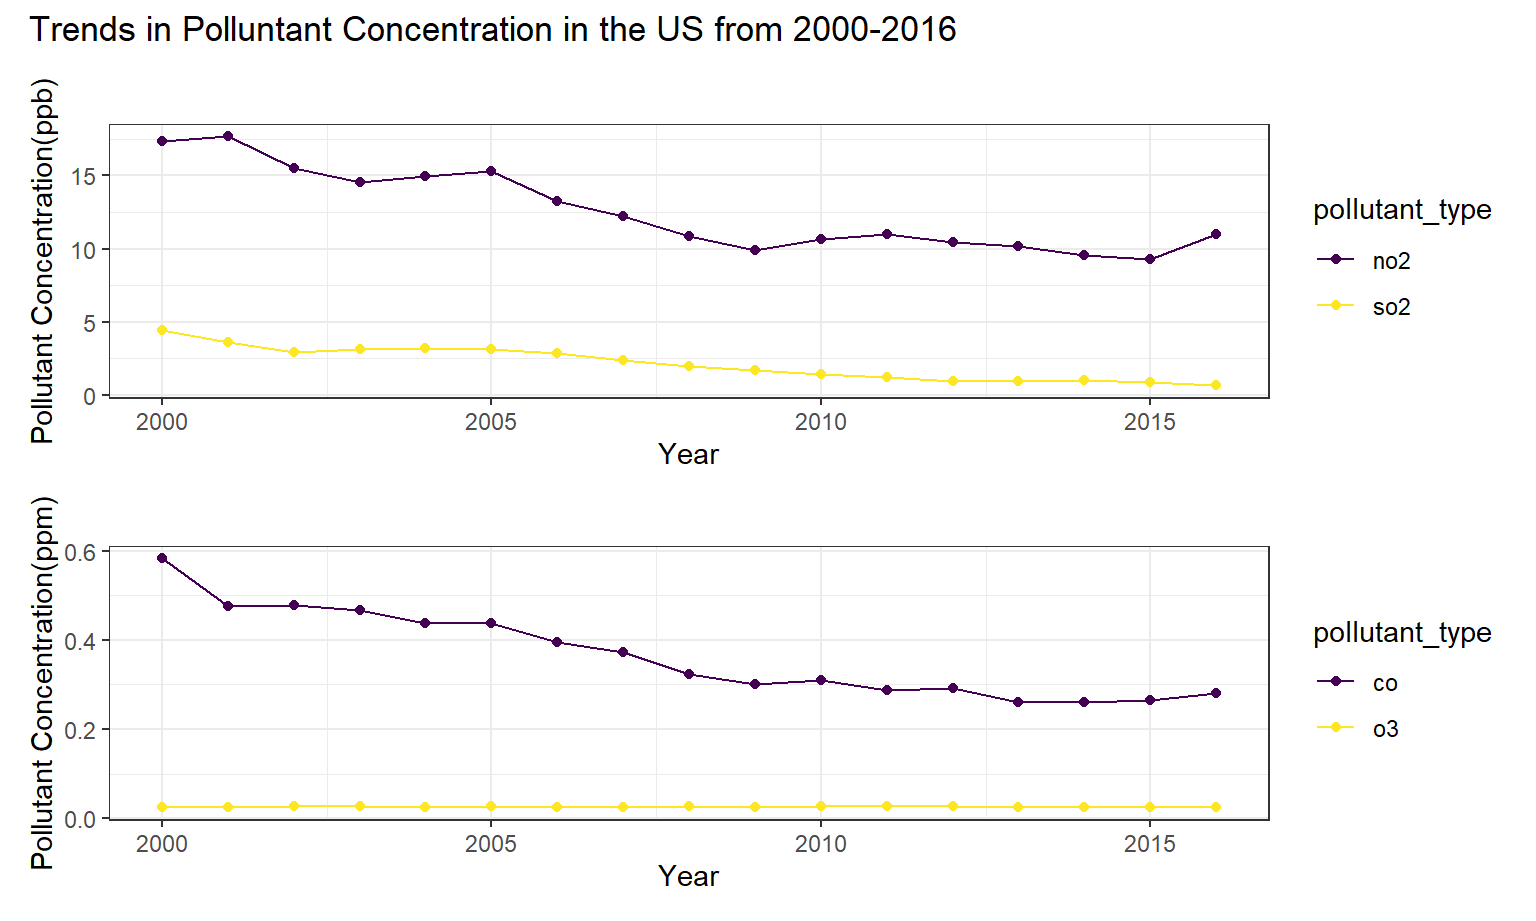
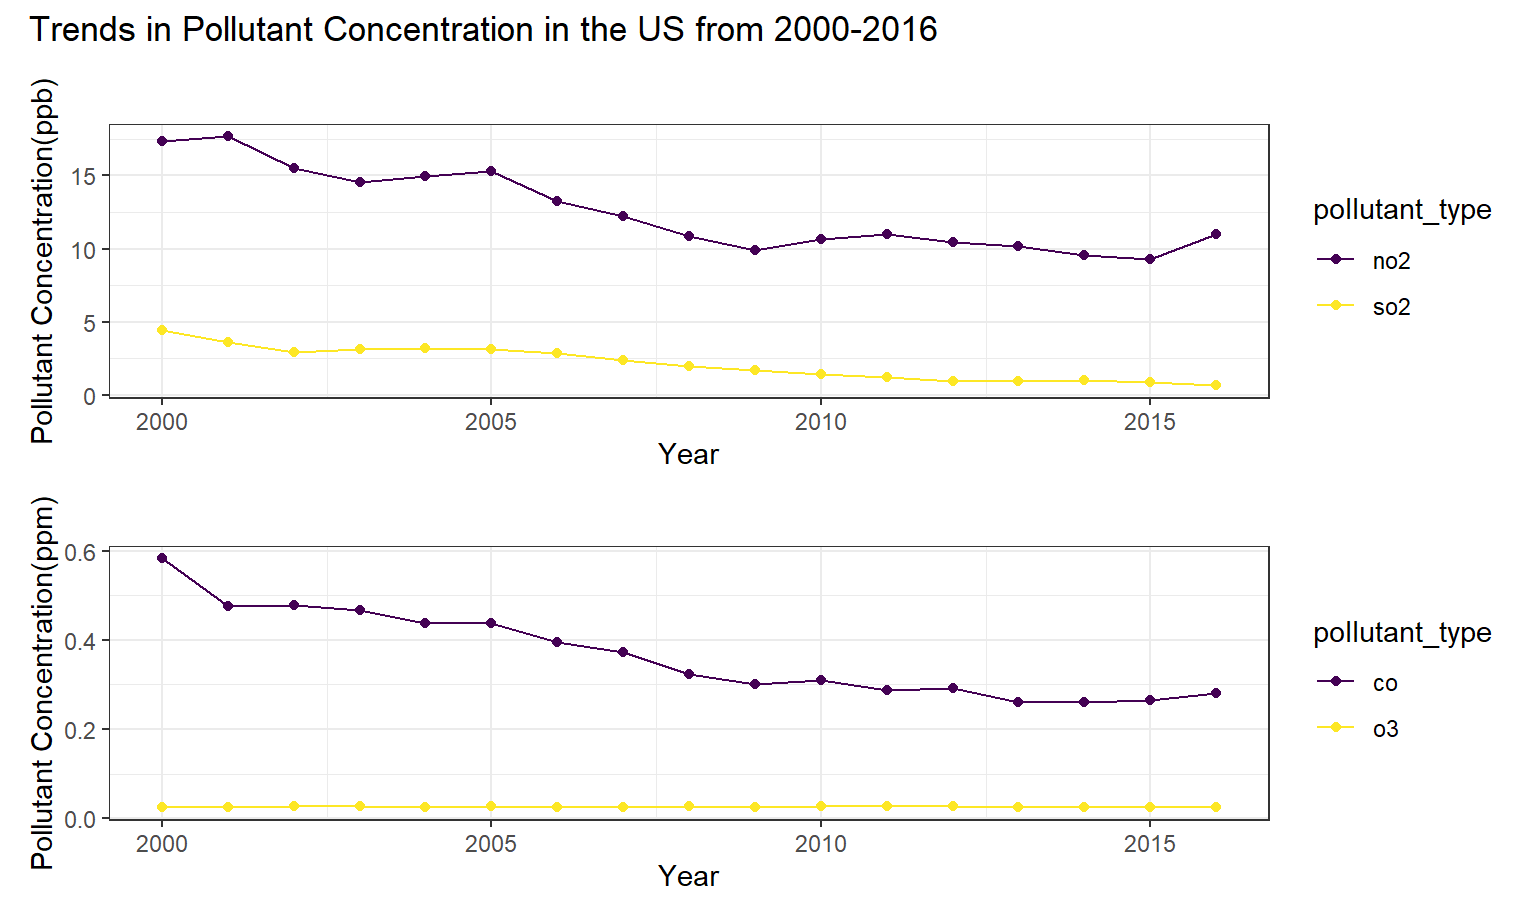
quick spelling fix

Changed region(s): [[0.1562, 0.0, 0.5312, 0.0608], [0.5625, 0.0, 0.625, 0.0608]]

diff --git a/exploratory-analysis.html b/exploratory-analysis.html
@@ -13,8 +13,8 @@
 
 <title>Exploratory Analysis</title>
 
-<script src="site_libs/header-attrs-2.10/header-attrs.js"></script>
-<script src="site_libs/jquery-3.5.1/jquery.min.js"></script>
+<script src="site_libs/header-attrs-2.11/header-attrs.js"></script>
+<script src="site_libs/jquery-3.6.0/jquery-3.6.0.min.js"></script>
 <meta name="viewport" content="width=device-width, initial-scale=1" />
 <link href="site_libs/bootstrap-3.3.5/css/journal.min.css" rel="stylesheet" />
 <script src="site_libs/bootstrap-3.3.5/js/bootstrap.min.js"></script>
@@ -380,7 +380,7 @@ div.tocify {
 
 
 <p> </p>
-<p>To understand the polltion-related factors that act upon cancer incidence and death, we obtained, cleaned, and analyzed pollution data that spanned from 2000-2016. This data contained concentrations from the known pollutants NO2, O3, SO2, and CO.</p>
+<p>To understand the pollution-related factors that act upon cancer incidence and death, we obtained, cleaned, and analyzed pollution data that spanned from 2000-2016. This data contained concentrations from the known pollutants NO2, O3, SO2, and CO.</p>
 <hr />
 <div id="exploring-pollution-data-set" class="section level1">
 <h1>Exploring Pollution Data Set</h1>
@@ -617,7 +617,7 @@ modified_pollution %&gt;%
 <div id="comparing-distributions-of-pollutant-concentrations" class="section level2">
 <h2>Comparing Distributions of Pollutant Concentrations</h2>
 <p> </p>
-<p>To compare the distributions of the pollutants to each other, we created a series of boxplots. As you can see, NO2 has the highest average concentration of any of the pollutants in ppm, and also has a skewed-right shape. CO and O3 have much narrowers distributions (in addition to much lower mean concentrations), making their shape harder to discern. SO2, however, appears to be approximately normally distributed.</p>
+<p>To compare the distributions of the pollutants to each other, we created a series of boxplots. As you can see, NO2 has the highest average concentration of any of the pollutants in ppm, and also has a skewed-right shape. CO and O3 have much narrower distributions (in addition to much lower mean concentrations), making their shape harder to discern. SO2, however, appears to be approximately normally distributed.</p>
 <pre class="r"><code>ppb_plot =
   modified_pollution %&gt;% 
   pivot_longer(
@@ -691,7 +691,7 @@ ppb_point =
   ) 
 
 ppb_point / ppm_point + plot_annotation(title = 
-                                        &quot;Trends in Polluntant Concentration in the US from 2000-2016&quot;)</code></pre>
+                                        &quot;Trends in Pollutant Concentration in the US from 2000-2016&quot;)</code></pre>
 <p><img src="exploratory-analysis_files/figure-html/unnamed-chunk-4-1.png" width="90%" /></p>
 <hr />
 </div>
@@ -747,8 +747,8 @@ inc_state %&gt;%
     title = &quot;Distribution of Lung/Bronchus Cancer Incidence Rate by State in 2013-2017&quot;,
     geo = g
   )</code></pre>
-<div id="htmlwidget-21fb1949420099caee19" style="width:90%;height:460.8px;" class="plotly html-widget"></div>
-<script type="application/json" data-for="htmlwidget-21fb1949420099caee19">{"x":{"visdat":{"3538a403e91":["function () ","plotlyVisDat"]},"cur_data":"3538a403e91","attrs":{"3538a403e91":{"locationmode":"USA-states","alpha_stroke":1,"sizes":[10,100],"spans":[1,20],"z":{},"text":{},"locations":{},"color":{},"colors":"inferno","inherit":true}},"layout":{"margin":{"b":40,"l":60,"t":25,"r":10},"mapType":"geo","scene":{"zaxis":{"title":"lung_and_bronchus_both_sexes_combined"}},"geo":{"domain":{"x":[0,1],"y":[0,1]},"scope":"usa","projection":{"type":"albers usa"},"showlakes":true,"lakecolor":"rgba(255,255,255,1)"},"hovermode":"closest","showlegend":false,"legend":{"yanchor":"top","y":0.5},"title":"Distribution of Lung/Bronchus Cancer Incidence Rate by State in 2013-2017"},"source":"A","config":{"modeBarButtonsToAdd":["hoverclosest","hovercompare"],"showSendToCloud":false},"data":[{"colorbar":{"title":"Incidence Rate per 100,000","ticklen":2,"len":0.5,"lenmode":"fraction","y":1,"yanchor":"top"},"colorscale":[["0","rgba(0,0,4,1)"],["0.0416666666666667","rgba(6,4,24,1)"],["0.0833333333333334","rgba(17,10,48,1)"],["0.125","rgba(33,12,74,1)"],["0.166666666666667","rgba(51,10,94,1)"],["0.208333333333333","rgba(69,10,105,1)"],["0.25","rgba(87,16,110,1)"],["0.291666666666667","rgba(104,22,110,1)"],["0.333333333333333","rgba(120,28,109,1)"],["0.375","rgba(137,34,106,1)"],["0.416666666666667","rgba(154,40,101,1)"],["0.458333333333333","rgba(171,47,94,1)"],["0.5","rgba(187,54,85,1)"],["0.541666666666667","rgba(202,64,74,1)"],["0.583333333333333","rgba(216,76,62,1)"],["0.625","rgba(227,89,50,1)"],["0.666666666666667","rgba(237,105,37,1)"],["0.708333333333333","rgba(245,122,23,1)"],["0.75","rgba(249,141,10,1)"],["0.791666666666667","rgba(252,161,8,1)"],["0.833333333333333","rgba(252,181,25,1)"],["0.875","rgba(249,201,50,1)"],["0.916666666666667","rgba(244,222,82,1)"],["0.958333333333333","rgba(241,241,123,1)"],["1","rgba(252,255,164,1)"]],"showscale":true,"locationmode":"USA-states","z":[64.8,55.8,46.7,77.2,41.5,41.4,59.6,66.9,57.7,62.8,45.7,49.5,63.7,72.2,63.3,56.2,91,66.2,72.1,56.4,61.6,63.3,56.1,74.9,72,53.7,57,63.7,55.3,38.5,58.7,67.7,57.7,67.8,67.4,54.1,63.5,69.4,64.4,59,74.5,50.6,26,61.1,56.4,54,79.8,59.1,42.2],"text":["Alabama","Alaska","Arizona","Arkansas","California","Colorado","Connecticut","Delaware","Florida","Georgia","Hawaii","Idaho","Illinois","Indiana","Iowa","Kansas","Kentucky","Louisiana","Maine","Maryland","Massachusetts","Michigan","Minnesota","Mississippi","Missouri","Montana","Nebraska","New Hampshire","New Jersey","New Mexico","New York","North Carolina","North Dakota","Ohio","Oklahoma","Oregon","Pennsylvania","Rhode Island","South Carolina","South Dakota","Tennessee","Texas","Utah","Vermont","Virginia","Washington","West Virginia","Wisconsin","Wyoming"],"locations":["AL","AK","AZ","AR","CA","CO","CT","DE","FL","GA","HI","ID","IL","IN","IA","KS","KY","LA","ME","MD","MA","MI","MN","MS","MO","MT","NE","NH","NJ","NM","NY","NC","ND","OH","OK","OR","PA","RI","SC","SD","TN","TX","UT","VT","VA","WA","WV","WI","WY"],"type":"choropleth","marker":{"line":{"colorbar":{"title":"","ticklen":2},"cmin":26,"cmax":91,"colorscale":[["0","rgba(0,0,4,1)"],["0.0416666666666667","rgba(6,4,24,1)"],["0.0833333333333334","rgba(17,10,48,1)"],["0.125","rgba(33,12,74,1)"],["0.166666666666667","rgba(51,10,94,1)"],["0.208333333333333","rgba(69,10,105,1)"],["0.25","rgba(87,16,110,1)"],["0.291666666666667","rgba(104,22,110,1)"],["0.333333333333333","rgba(120,28,109,1)"],["0.375","rgba(137,34,106,1)"],["0.416666666666667","rgba(154,40,101,1)"],["0.458333333333333","rgba(171,47,94,1)"],["0.5","rgba(187,54,85,1)"],["0.541666666666667","rgba(202,64,74,1)"],["0.583333333333333","rgba(216,76,62,1)"],["0.625","rgba(227,89,50,1)"],["0.666666666666667","rgba(237,105,37,1)"],["0.708333333333333","rgba(245,122,23,1)"],["0.75","rgba(249,141,10,1)"],["0.791666666666667","rgba(252,161,8,1)"],["0.833333333333333","rgba(252,181,25,1)"],["0.875","rgba(249,201,50,1)"],["0.916666666666667","rgba(244,222,82,1)"],["0.958333333333333","rgba(241,241,123,1)"],["1","rgba(252,255,164,1)"]],"showscale":false,"color":[64.8,55.8,46.7,77.2,41.5,41.4,59.6,66.9,57.7,62.8,45.7,49.5,63.7,72.2,63.3,56.2,91,66.2,72.1,56.4,61.6,63.3,56.1,74.9,72,53.7,57,63.7,55.3,38.5,58.7,67.7,57.7,67.8,67.4,54.1,63.5,69.4,64.4,59,74.5,50.6,26,61.1,56.4,54,79.8,59.1,42.2]}},"geo":"geo","frame":null}],"highlight":{"on":"plotly_click","persistent":false,"dynamic":false,"selectize":false,"opacityDim":0.2,"selected":{"opacity":1},"debounce":0},"shinyEvents":["plotly_hover","plotly_click","plotly_selected","plotly_relayout","plotly_brushed","plotly_brushing","plotly_clickannotation","plotly_doubleclick","plotly_deselect","plotly_afterplot","plotly_sunburstclick"],"base_url":"https://plot.ly"},"evals":[],"jsHooks":[]}</script>
+<div id="htmlwidget-fdfa8272f8fe6a5e9446" style="width:90%;height:460.8px;" class="plotly html-widget"></div>
+<script type="application/json" data-for="htmlwidget-fdfa8272f8fe6a5e9446">{"x":{"visdat":{"2b481d277c9c":["function () ","plotlyVisDat"]},"cur_data":"2b481d277c9c","attrs":{"2b481d277c9c":{"locationmode":"USA-states","alpha_stroke":1,"sizes":[10,100],"spans":[1,20],"z":{},"text":{},"locations":{},"color":{},"colors":"inferno","inherit":true}},"layout":{"margin":{"b":40,"l":60,"t":25,"r":10},"mapType":"geo","scene":{"zaxis":{"title":"lung_and_bronchus_both_sexes_combined"}},"geo":{"domain":{"x":[0,1],"y":[0,1]},"scope":"usa","projection":{"type":"albers usa"},"showlakes":true,"lakecolor":"rgba(255,255,255,1)"},"hovermode":"closest","showlegend":false,"legend":{"yanchor":"top","y":0.5},"title":"Distribution of Lung/Bronchus Cancer Incidence Rate by State in 2013-2017"},"source":"A","config":{"modeBarButtonsToAdd":["hoverclosest","hovercompare"],"showSendToCloud":false},"data":[{"colorbar":{"title":"Incidence Rate per 100,000","ticklen":2,"len":0.5,"lenmode":"fraction","y":1,"yanchor":"top"},"colorscale":[["0","rgba(0,0,4,1)"],["0.0416666666666667","rgba(6,4,24,1)"],["0.0833333333333334","rgba(17,10,48,1)"],["0.125","rgba(33,12,74,1)"],["0.166666666666667","rgba(51,10,94,1)"],["0.208333333333333","rgba(69,10,105,1)"],["0.25","rgba(87,16,110,1)"],["0.291666666666667","rgba(104,22,110,1)"],["0.333333333333333","rgba(120,28,109,1)"],["0.375","rgba(137,34,106,1)"],["0.416666666666667","rgba(154,40,101,1)"],["0.458333333333333","rgba(171,47,94,1)"],["0.5","rgba(187,54,85,1)"],["0.541666666666667","rgba(202,64,74,1)"],["0.583333333333333","rgba(216,76,62,1)"],["0.625","rgba(227,89,50,1)"],["0.666666666666667","rgba(237,105,37,1)"],["0.708333333333333","rgba(245,122,23,1)"],["0.75","rgba(249,141,10,1)"],["0.791666666666667","rgba(252,161,8,1)"],["0.833333333333333","rgba(252,181,25,1)"],["0.875","rgba(249,201,50,1)"],["0.916666666666667","rgba(244,222,82,1)"],["0.958333333333333","rgba(241,241,123,1)"],["1","rgba(252,255,164,1)"]],"showscale":true,"locationmode":"USA-states","z":[64.8,55.8,46.7,77.2,41.5,41.4,59.6,66.9,57.7,62.8,45.7,49.5,63.7,72.2,63.3,56.2,91,66.2,72.1,56.4,61.6,63.3,56.1,74.9,72,53.7,57,63.7,55.3,38.5,58.7,67.7,57.7,67.8,67.4,54.1,63.5,69.4,64.4,59,74.5,50.6,26,61.1,56.4,54,79.8,59.1,42.2],"text":["Alabama","Alaska","Arizona","Arkansas","California","Colorado","Connecticut","Delaware","Florida","Georgia","Hawaii","Idaho","Illinois","Indiana","Iowa","Kansas","Kentucky","Louisiana","Maine","Maryland","Massachusetts","Michigan","Minnesota","Mississippi","Missouri","Montana","Nebraska","New Hampshire","New Jersey","New Mexico","New York","North Carolina","North Dakota","Ohio","Oklahoma","Oregon","Pennsylvania","Rhode Island","South Carolina","South Dakota","Tennessee","Texas","Utah","Vermont","Virginia","Washington","West Virginia","Wisconsin","Wyoming"],"locations":["AL","AK","AZ","AR","CA","CO","CT","DE","FL","GA","HI","ID","IL","IN","IA","KS","KY","LA","ME","MD","MA","MI","MN","MS","MO","MT","NE","NH","NJ","NM","NY","NC","ND","OH","OK","OR","PA","RI","SC","SD","TN","TX","UT","VT","VA","WA","WV","WI","WY"],"type":"choropleth","marker":{"line":{"colorbar":{"title":"","ticklen":2},"cmin":26,"cmax":91,"colorscale":[["0","rgba(0,0,4,1)"],["0.0416666666666667","rgba(6,4,24,1)"],["0.0833333333333334","rgba(17,10,48,1)"],["0.125","rgba(33,12,74,1)"],["0.166666666666667","rgba(51,10,94,1)"],["0.208333333333333","rgba(69,10,105,1)"],["0.25","rgba(87,16,110,1)"],["0.291666666666667","rgba(104,22,110,1)"],["0.333333333333333","rgba(120,28,109,1)"],["0.375","rgba(137,34,106,1)"],["0.416666666666667","rgba(154,40,101,1)"],["0.458333333333333","rgba(171,47,94,1)"],["0.5","rgba(187,54,85,1)"],["0.541666666666667","rgba(202,64,74,1)"],["0.583333333333333","rgba(216,76,62,1)"],["0.625","rgba(227,89,50,1)"],["0.666666666666667","rgba(237,105,37,1)"],["0.708333333333333","rgba(245,122,23,1)"],["0.75","rgba(249,141,10,1)"],["0.791666666666667","rgba(252,161,8,1)"],["0.833333333333333","rgba(252,181,25,1)"],["0.875","rgba(249,201,50,1)"],["0.916666666666667","rgba(244,222,82,1)"],["0.958333333333333","rgba(241,241,123,1)"],["1","rgba(252,255,164,1)"]],"showscale":false,"color":[64.8,55.8,46.7,77.2,41.5,41.4,59.6,66.9,57.7,62.8,45.7,49.5,63.7,72.2,63.3,56.2,91,66.2,72.1,56.4,61.6,63.3,56.1,74.9,72,53.7,57,63.7,55.3,38.5,58.7,67.7,57.7,67.8,67.4,54.1,63.5,69.4,64.4,59,74.5,50.6,26,61.1,56.4,54,79.8,59.1,42.2]}},"geo":"geo","frame":null}],"highlight":{"on":"plotly_click","persistent":false,"dynamic":false,"selectize":false,"opacityDim":0.2,"selected":{"opacity":1},"debounce":0},"shinyEvents":["plotly_hover","plotly_click","plotly_selected","plotly_relayout","plotly_brushed","plotly_brushing","plotly_clickannotation","plotly_doubleclick","plotly_deselect","plotly_afterplot","plotly_sunburstclick"],"base_url":"https://plot.ly"},"evals":[],"jsHooks":[]}</script>
 <p><em>Note. The raw data for incidence rate of cancer by cancer type did not include data point for Nevada in the combined national rates. Original data recommends referring to publications and sources page on American Cancer Society website</em></p>
 <p> </p>
 </div>
@@ -797,8 +797,8 @@ death_state %&gt;%
     title = &quot;Distribution of Lung/Bronchus Cancer Mortality Rate by State in 2013-2017&quot;,
     geo = g
   )</code></pre>
-<div id="htmlwidget-3a74d6a1ccf13572d19c" style="width:90%;height:460.8px;" class="plotly html-widget"></div>
-<script type="application/json" data-for="htmlwidget-3a74d6a1ccf13572d19c">{"x":{"visdat":{"353858eed13":["function () ","plotlyVisDat"]},"cur_data":"353858eed13","attrs":{"353858eed13":{"locationmode":"USA-states","alpha_stroke":1,"sizes":[10,100],"spans":[1,20],"z":{},"text":{},"locations":{},"color":{},"colors":"inferno","inherit":true}},"layout":{"margin":{"b":40,"l":60,"t":25,"r":10},"mapType":"geo","scene":{"zaxis":{"title":"lung_and_bronchus_both_sexes_combined"}},"geo":{"domain":{"x":[0,1],"y":[0,1]},"scope":"usa","projection":{"type":"albers usa"},"showlakes":true,"lakecolor":"rgba(255,255,255,1)"},"hovermode":"closest","showlegend":false,"legend":{"yanchor":"top","y":0.5},"title":"Distribution of Lung/Bronchus Cancer Mortality Rate by State in 2013-2017"},"source":"A","config":{"modeBarButtonsToAdd":["hoverclosest","hovercompare"],"showSendToCloud":false},"data":[{"colorbar":{"title":"Mortality Rate per 100,000","ticklen":2,"len":0.5,"lenmode":"fraction","y":1,"yanchor":"top"},"colorscale":[["0","rgba(0,0,4,1)"],["0.0416666666666667","rgba(6,4,24,1)"],["0.0833333333333333","rgba(17,10,48,1)"],["0.125","rgba(33,12,74,1)"],["0.166666666666667","rgba(51,10,94,1)"],["0.208333333333333","rgba(69,10,105,1)"],["0.25","rgba(87,16,110,1)"],["0.291666666666667","rgba(104,22,110,1)"],["0.333333333333333","rgba(120,28,109,1)"],["0.375","rgba(137,34,106,1)"],["0.416666666666667","rgba(154,40,101,1)"],["0.458333333333333","rgba(171,47,94,1)"],["0.5","rgba(187,54,85,1)"],["0.541666666666667","rgba(202,64,74,1)"],["0.583333333333333","rgba(216,76,62,1)"],["0.625","rgba(227,89,50,1)"],["0.666666666666667","rgba(237,105,37,1)"],["0.708333333333333","rgba(245,122,23,1)"],["0.75","rgba(249,141,10,1)"],["0.791666666666667","rgba(252,161,8,1)"],["0.833333333333333","rgba(252,181,25,1)"],["0.875","rgba(249,201,50,1)"],["0.916666666666667","rgba(244,222,82,1)"],["0.958333333333333","rgba(241,241,123,1)"],["1","rgba(252,255,164,1)"]],"showscale":true,"locationmode":"USA-states","z":[48.5,36.6,31.3,52.8,28.1,26.5,33.1,43.2,37.5,40.9,29.3,32.4,41.1,48.7,41.3,41.6,60.4,47.5,46.7,37.2,37.1,44.1,35.2,52.8,48.7,35.9,37.9,39.3,41.1,33.7,26.8,33.6,44.1,35.1,46.7,50,36.6,40.8,42.2,42.7,39.3,51.3,34.1,18.1,41.4,38.8,35.5,53.6,38.5,30.9],"text":["Alabama","Alaska","Arizona","Arkansas","California","Colorado","Connecticut","Delaware","Florida","Georgia","Hawaii","Idaho","Illinois","Indiana","Iowa","Kansas","Kentucky","Louisiana","Maine","Maryland","Massachusetts","Michigan","Minnesota","Mississippi","Missouri","Montana","Nebraska","Nevada","New Hampshire","New Jersey","New Mexico","New York","North Carolina","North Dakota","Ohio","Oklahoma","Oregon","Pennsylvania","Rhode Island","South Carolina","South Dakota","Tennessee","Texas","Utah","Vermont","Virginia","Washington","West Virginia","Wisconsin","Wyoming"],"locations":["AL","AK","AZ","AR","CA","CO","CT","DE","FL","GA","HI","ID","IL","IN","IA","KS","KY","LA","ME","MD","MA","MI","MN","MS","MO","MT","NE","NV","NH","NJ","NM","NY","NC","ND","OH","OK","OR","PA","RI","SC","SD","TN","TX","UT","VT","VA","WA","WV","WI","WY"],"type":"choropleth","marker":{"line":{"colorbar":{"title":"","ticklen":2},"cmin":18.1,"cmax":60.4,"colorscale":[["0","rgba(0,0,4,1)"],["0.0416666666666667","rgba(6,4,24,1)"],["0.0833333333333333","rgba(17,10,48,1)"],["0.125","rgba(33,12,74,1)"],["0.166666666666667","rgba(51,10,94,1)"],["0.208333333333333","rgba(69,10,105,1)"],["0.25","rgba(87,16,110,1)"],["0.291666666666667","rgba(104,22,110,1)"],["0.333333333333333","rgba(120,28,109,1)"],["0.375","rgba(137,34,106,1)"],["0.416666666666667","rgba(154,40,101,1)"],["0.458333333333333","rgba(171,47,94,1)"],["0.5","rgba(187,54,85,1)"],["0.541666666666667","rgba(202,64,74,1)"],["0.583333333333333","rgba(216,76,62,1)"],["0.625","rgba(227,89,50,1)"],["0.666666666666667","rgba(237,105,37,1)"],["0.708333333333333","rgba(245,122,23,1)"],["0.75","rgba(249,141,10,1)"],["0.791666666666667","rgba(252,161,8,1)"],["0.833333333333333","rgba(252,181,25,1)"],["0.875","rgba(249,201,50,1)"],["0.916666666666667","rgba(244,222,82,1)"],["0.958333333333333","rgba(241,241,123,1)"],["1","rgba(252,255,164,1)"]],"showscale":false,"color":[48.5,36.6,31.3,52.8,28.1,26.5,33.1,43.2,37.5,40.9,29.3,32.4,41.1,48.7,41.3,41.6,60.4,47.5,46.7,37.2,37.1,44.1,35.2,52.8,48.7,35.9,37.9,39.3,41.1,33.7,26.8,33.6,44.1,35.1,46.7,50,36.6,40.8,42.2,42.7,39.3,51.3,34.1,18.1,41.4,38.8,35.5,53.6,38.5,30.9]}},"geo":"geo","frame":null}],"highlight":{"on":"plotly_click","persistent":false,"dynamic":false,"selectize":false,"opacityDim":0.2,"selected":{"opacity":1},"debounce":0},"shinyEvents":["plotly_hover","plotly_click","plotly_selected","plotly_relayout","plotly_brushed","plotly_brushing","plotly_clickannotation","plotly_doubleclick","plotly_deselect","plotly_afterplot","plotly_sunburstclick"],"base_url":"https://plot.ly"},"evals":[],"jsHooks":[]}</script>
+<div id="htmlwidget-312a4e8c2b8d56064678" style="width:90%;height:460.8px;" class="plotly html-widget"></div>
+<script type="application/json" data-for="htmlwidget-312a4e8c2b8d56064678">{"x":{"visdat":{"2b48723b5bf6":["function () ","plotlyVisDat"]},"cur_data":"2b48723b5bf6","attrs":{"2b48723b5bf6":{"locationmode":"USA-states","alpha_stroke":1,"sizes":[10,100],"spans":[1,20],"z":{},"text":{},"locations":{},"color":{},"colors":"inferno","inherit":true}},"layout":{"margin":{"b":40,"l":60,"t":25,"r":10},"mapType":"geo","scene":{"zaxis":{"title":"lung_and_bronchus_both_sexes_combined"}},"geo":{"domain":{"x":[0,1],"y":[0,1]},"scope":"usa","projection":{"type":"albers usa"},"showlakes":true,"lakecolor":"rgba(255,255,255,1)"},"hovermode":"closest","showlegend":false,"legend":{"yanchor":"top","y":0.5},"title":"Distribution of Lung/Bronchus Cancer Mortality Rate by State in 2013-2017"},"source":"A","config":{"modeBarButtonsToAdd":["hoverclosest","hovercompare"],"showSendToCloud":false},"data":[{"colorbar":{"title":"Mortality Rate per 100,000","ticklen":2,"len":0.5,"lenmode":"fraction","y":1,"yanchor":"top"},"colorscale":[["0","rgba(0,0,4,1)"],["0.0416666666666667","rgba(6,4,24,1)"],["0.0833333333333333","rgba(17,10,48,1)"],["0.125","rgba(33,12,74,1)"],["0.166666666666667","rgba(51,10,94,1)"],["0.208333333333333","rgba(69,10,105,1)"],["0.25","rgba(87,16,110,1)"],["0.291666666666667","rgba(104,22,110,1)"],["0.333333333333333","rgba(120,28,109,1)"],["0.375","rgba(137,34,106,1)"],["0.416666666666667","rgba(154,40,101,1)"],["0.458333333333333","rgba(171,47,94,1)"],["0.5","rgba(187,54,85,1)"],["0.541666666666667","rgba(202,64,74,1)"],["0.583333333333333","rgba(216,76,62,1)"],["0.625","rgba(227,89,50,1)"],["0.666666666666667","rgba(237,105,37,1)"],["0.708333333333333","rgba(245,122,23,1)"],["0.75","rgba(249,141,10,1)"],["0.791666666666667","rgba(252,161,8,1)"],["0.833333333333333","rgba(252,181,25,1)"],["0.875","rgba(249,201,50,1)"],["0.916666666666667","rgba(244,222,82,1)"],["0.958333333333333","rgba(241,241,123,1)"],["1","rgba(252,255,164,1)"]],"showscale":true,"locationmode":"USA-states","z":[48.5,36.6,31.3,52.8,28.1,26.5,33.1,43.2,37.5,40.9,29.3,32.4,41.1,48.7,41.3,41.6,60.4,47.5,46.7,37.2,37.1,44.1,35.2,52.8,48.7,35.9,37.9,39.3,41.1,33.7,26.8,33.6,44.1,35.1,46.7,50,36.6,40.8,42.2,42.7,39.3,51.3,34.1,18.1,41.4,38.8,35.5,53.6,38.5,30.9],"text":["Alabama","Alaska","Arizona","Arkansas","California","Colorado","Connecticut","Delaware","Florida","Georgia","Hawaii","Idaho","Illinois","Indiana","Iowa","Kansas","Kentucky","Louisiana","Maine","Maryland","Massachusetts","Michigan","Minnesota","Mississippi","Missouri","Montana","Nebraska","Nevada","New Hampshire","New Jersey","New Mexico","New York","North Carolina","North Dakota","Ohio","Oklahoma","Oregon","Pennsylvania","Rhode Island","South Carolina","South Dakota","Tennessee","Texas","Utah","Vermont","Virginia","Washington","West Virginia","Wisconsin","Wyoming"],"locations":["AL","AK","AZ","AR","CA","CO","CT","DE","FL","GA","HI","ID","IL","IN","IA","KS","KY","LA","ME","MD","MA","MI","MN","MS","MO","MT","NE","NV","NH","NJ","NM","NY","NC","ND","OH","OK","OR","PA","RI","SC","SD","TN","TX","UT","VT","VA","WA","WV","WI","WY"],"type":"choropleth","marker":{"line":{"colorbar":{"title":"","ticklen":2},"cmin":18.1,"cmax":60.4,"colorscale":[["0","rgba(0,0,4,1)"],["0.0416666666666667","rgba(6,4,24,1)"],["0.0833333333333333","rgba(17,10,48,1)"],["0.125","rgba(33,12,74,1)"],["0.166666666666667","rgba(51,10,94,1)"],["0.208333333333333","rgba(69,10,105,1)"],["0.25","rgba(87,16,110,1)"],["0.291666666666667","rgba(104,22,110,1)"],["0.333333333333333","rgba(120,28,109,1)"],["0.375","rgba(137,34,106,1)"],["0.416666666666667","rgba(154,40,101,1)"],["0.458333333333333","rgba(171,47,94,1)"],["0.5","rgba(187,54,85,1)"],["0.541666666666667","rgba(202,64,74,1)"],["0.583333333333333","rgba(216,76,62,1)"],["0.625","rgba(227,89,50,1)"],["0.666666666666667","rgba(237,105,37,1)"],["0.708333333333333","rgba(245,122,23,1)"],["0.75","rgba(249,141,10,1)"],["0.791666666666667","rgba(252,161,8,1)"],["0.833333333333333","rgba(252,181,25,1)"],["0.875","rgba(249,201,50,1)"],["0.916666666666667","rgba(244,222,82,1)"],["0.958333333333333","rgba(241,241,123,1)"],["1","rgba(252,255,164,1)"]],"showscale":false,"color":[48.5,36.6,31.3,52.8,28.1,26.5,33.1,43.2,37.5,40.9,29.3,32.4,41.1,48.7,41.3,41.6,60.4,47.5,46.7,37.2,37.1,44.1,35.2,52.8,48.7,35.9,37.9,39.3,41.1,33.7,26.8,33.6,44.1,35.1,46.7,50,36.6,40.8,42.2,42.7,39.3,51.3,34.1,18.1,41.4,38.8,35.5,53.6,38.5,30.9]}},"geo":"geo","frame":null}],"highlight":{"on":"plotly_click","persistent":false,"dynamic":false,"selectize":false,"opacityDim":0.2,"selected":{"opacity":1},"debounce":0},"shinyEvents":["plotly_hover","plotly_click","plotly_selected","plotly_relayout","plotly_brushed","plotly_brushing","plotly_clickannotation","plotly_doubleclick","plotly_deselect","plotly_afterplot","plotly_sunburstclick"],"base_url":"https://plot.ly"},"evals":[],"jsHooks":[]}</script>
 </div>
 <div id="exploring-trends-in-death-from-lung-cancer" class="section level2">
 <h2>Exploring Trends in Death From Lung Cancer</h2>
@@ -856,7 +856,7 @@ death_time =
 <h1>Exploring relationship between trend in death rate from Lung Cancer to Pollution Concentration</h1>
 <p> </p>
 <p>After analyzing pollutants and lung cancer mortality/incidence on their own, we combined the pollution data with our data on cancer death and incidence in order to draw conclusions on the correlative effects pollutants have on cancer.</p>
-<p>The next series of plots compares the pollutant concentration to the lung cancer death rate, statifying by gender. We see moderately strong, positive linear correlations between Carbon Monoxide(co), Sulfur Dioxide(so2), and nitrous dioxide(no2) and lung cancer death rate among males. Whereas for females, we only see a moderate linear correlation between so2 and carbon monoxide concentrations and lung cancer death rate.</p>
+<p>The next series of plots compares the pollutant concentration to the lung cancer death rate, stratifying by gender. We see moderately strong, positive linear correlations between Carbon Monoxide(co), Sulfur Dioxide(so2), and nitrous dioxide(no2) and lung cancer death rate among males. Whereas for females, we only see a moderate linear correlation between so2 and carbon monoxide concentrations and lung cancer death rate.</p>
 <pre class="r"><code>merged_death_pollution =
 merge(death_time, modified_pollution, by = &quot;year&quot;) 
 
